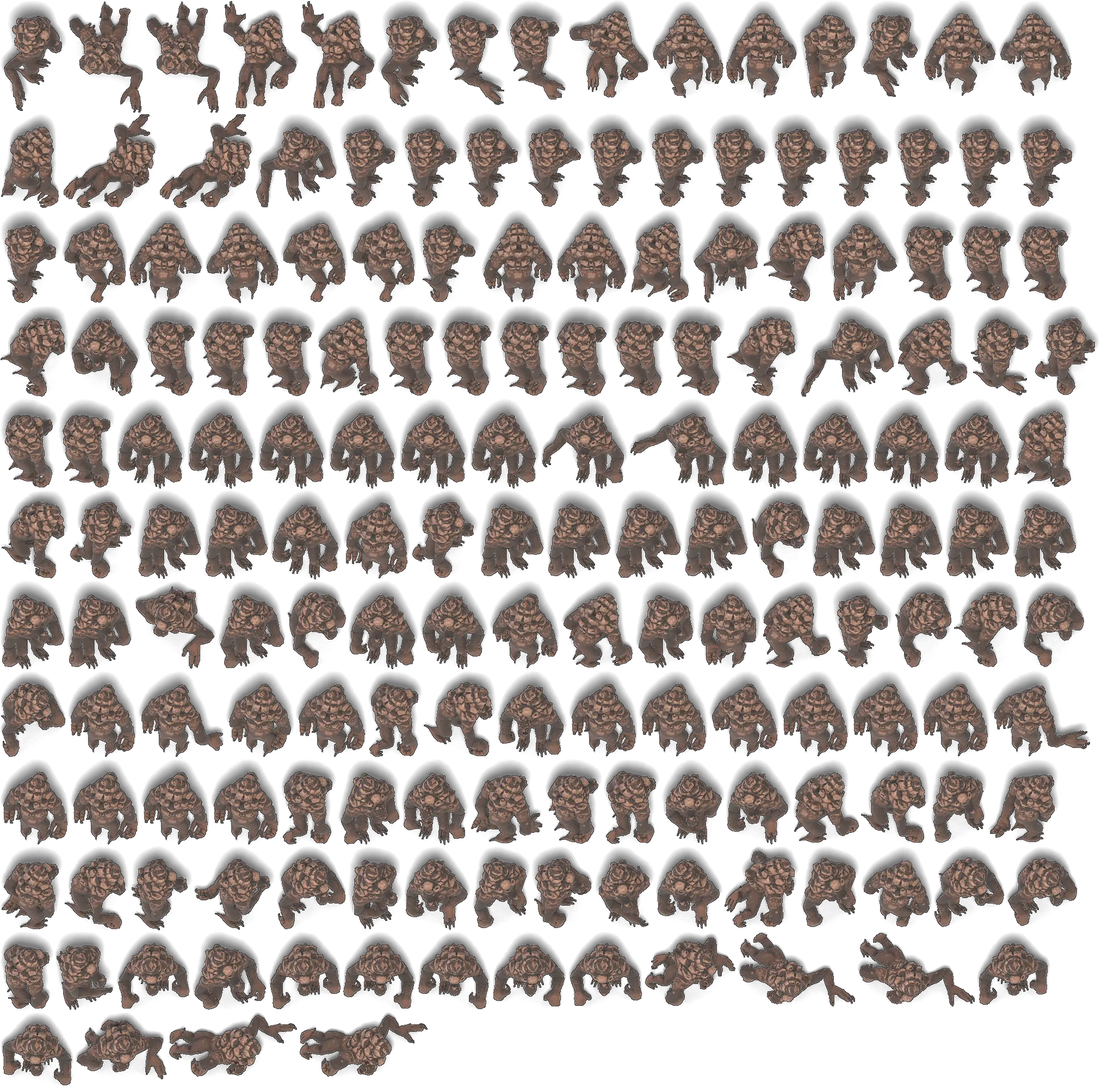
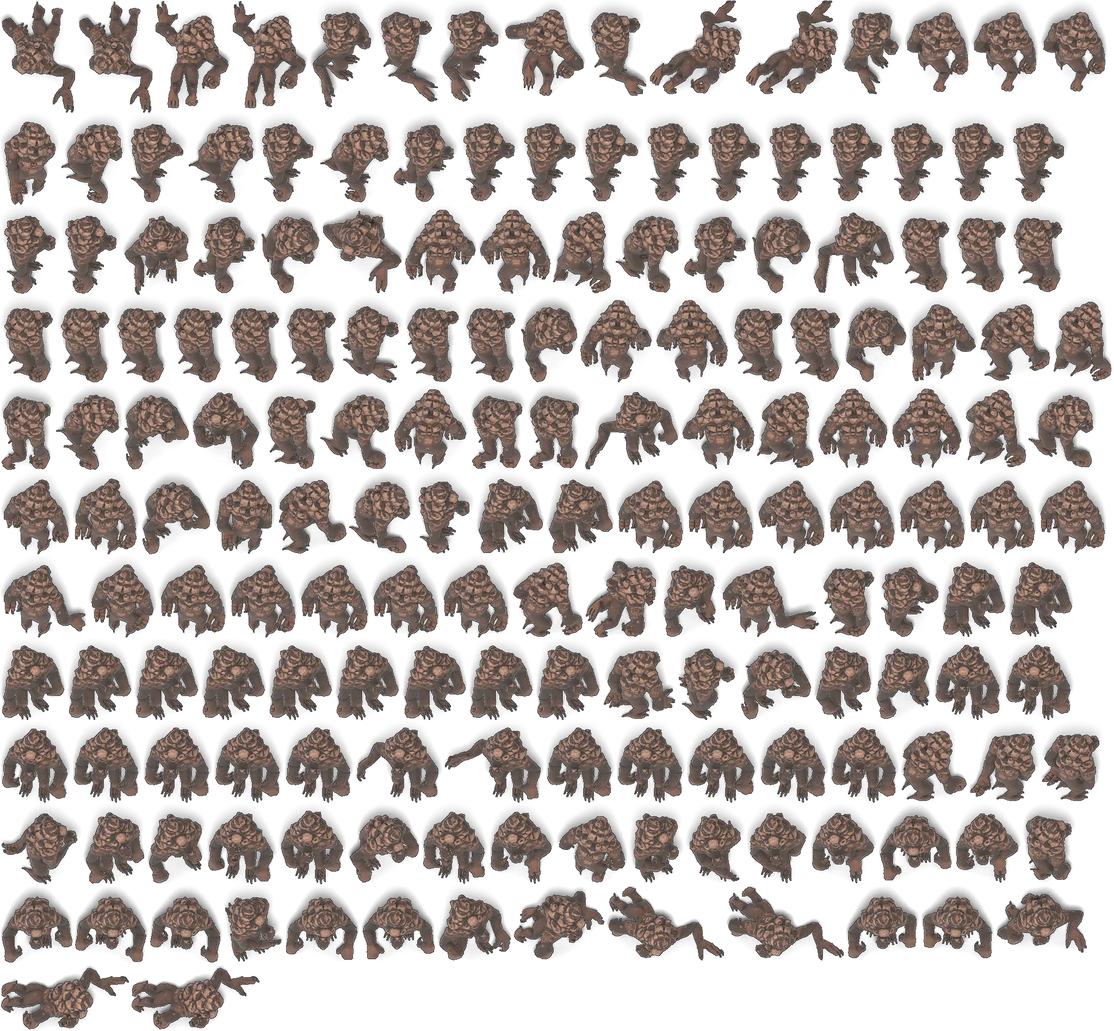
WIP v15: monk/angel/goblin/imp atlases, gog/lich entries, hide 3D wings under sprites

diff --git a/game3d.js b/game3d.js
@@ -124,10 +124,10 @@ async function buildPart(f,def,tint){const g=await loadG(f);const o=SkeletonUtil
     holder.scale.setScalar(p.len*H/(L*ws));bone.add(holder);}
   return {o,anims:g.animations};}
 // ---- pre-rendered sprites (?sprites=1): Blender-rendered 5-direction atlases (mirrored to 8) replace live 3D models ----
-const SPR_ON=/[?&]sprites=1/.test(location.search);const SPR={};const SPR_UNITS=['pikeman','archer','swordsman','monk','cavalier','angel','centaur','skeleton','walkingDead','goblin','dwarf','imp','behemoth','greenDragon'];const sprLoader=new THREE.TextureLoader();const SPR_V=15;
+const SPR_ON=/[?&]sprites=1/.test(location.search);const SPR={};const SPR_UNITS=['pikeman','archer','swordsman','monk','cavalier','angel','centaur','skeleton','walkingDead','goblin','dwarf','imp','gog','lich','behemoth','greenDragon'];const sprLoader=new THREE.TextureLoader();const SPR_V=15;
 // upgraded creatures reuse their base unit's atlas with a colour tint and a slightly larger scale (same approach as the 3D fallback)
 const SPR_ALIAS={halberdier:['pikeman',0xc4d0ff],marksman:['archer',0xc8f0c0],crusader:['swordsman',0xffd28a],zealot:['monk',0xffe2a8],champion:['cavalier',0xdde4ff],archangel:['angel',0xffe6a0],
-  skeletonWarrior:['skeleton',0xc8d4ff],zombie:['walkingDead',0xc8e8a0],hobgoblin:['goblin',0xffc48a],battleDwarf:['dwarf',0xffcfa0],familiar:['imp',0xff9a7a],centaurCaptain:['centaur',0xd8e8c0],ancientBehemoth:['behemoth',0xffb890]};
+  skeletonWarrior:['skeleton',0xc8d4ff],zombie:['walkingDead',0xc8e8a0],hobgoblin:['goblin',0xffc48a],battleDwarf:['dwarf',0xffcfa0],familiar:['imp',0xff9a7a],centaurCaptain:['centaur',0xd8e8c0],magog:['gog',0xffb070],powerLich:['lich',0xd0b0ff],ancientBehemoth:['behemoth',0xffb890]};
 function loadSpr(t){if(!SPR_ON)return null;if(SPR_ALIAS[t])return loadSpr(SPR_ALIAS[t][0]);if(!SPR_UNITS.includes(t))return null;return SPR[t]||(SPR[t]=fetch(`assets/spr/${t}.json?v=${SPR_V}`).then(r=>r.json()).then(m=>Promise.all(m.pages.map((_,i)=>new Promise((res,rej)=>sprLoader.load(`assets/spr/${t}_p${i}.webp?v=${SPR_V}`,res,undefined,rej)))).then(tx=>{for(const x of tx){x.colorSpace=THREE.SRGBColorSpace;x.anisotropy=4;}m.tex=tx;return m;})).catch(e=>{console.warn('spr',t,e);return null;}));}
 const shadowTex=(()=>{const c=document.createElement('canvas');c.width=c.height=64;const x=c.getContext('2d');const g=x.createRadialGradient(32,32,2,32,32,32);g.addColorStop(0,'rgba(0,0,0,.62)');g.addColorStop(0.5,'rgba(0,0,0,.36)');g.addColorStop(1,'rgba(0,0,0,0)');x.fillStyle=g;x.fillRect(0,0,64,64);return new THREE.CanvasTexture(c);})();
 const shadowMat=new THREE.MeshBasicMaterial({map:shadowTex,transparent:true,depthWrite:false});const shadowGeo=new THREE.PlaneGeometry(1,1);shadowGeo.rotateX(-Math.PI/2);
@@ -212,7 +212,7 @@ function updateView(v,dt,b){const u=v.u,def=v.def;const [x,z]=unitWorld(u);
   v.bob+=dt*3;const hover=fly?fly+Math.sin(v.bob)*0.05:0;
   v.spawn=Math.min(1,v.spawn+dt*3);const sp=v.spawn<1?(1-Math.pow(1-v.spawn,3)):1;
   if(v.dragPos){v.g.position.copy(v.dragPos);}else v.g.position.set(x,0,z);v.inner.position.y=hover+(v.dragPos?0.18:0);if(v.def.glow&&u.alive&&Math.random()<dt*3){P({x:v.g.position.x+(Math.random()-0.5)*0.4,y:Math.random()*v.def.h,z:v.g.position.z+(Math.random()-0.5)*0.4,vy:0.5,drag:1,life:0.8,s:0.05,c:[1,0.82,0.3]},true);}if(v.spawn<1){v.inner.position.y+=(1-sp)*2.4;v.dropping=1;}else if(v.dropping){v.dropping=0;dust(x,z,8,0.9);if(Math.random()<0.4)S.spawn();}v.g.scale.setScalar(0.75+0.25*Math.max(0,sp));
-  if(v.wg){v.wg.position.y=v.def.h*(v.def.wings.y||0.66)+v.inner.position.y;v.wt=(v.wt||Math.random()*6)+dt*(u.moving?11:6);const a=Math.sin(v.wt)*0.55+0.15;for(const [p,sd] of v.wg.userData.p)p.rotation.z=sd*a;v.wg.visible=u.alive||v.deadT<1.2;}
+  if(v.wg){v.wg.position.y=v.def.h*(v.def.wings.y||0.66)+v.inner.position.y;v.wt=(v.wt||Math.random()*6)+dt*(u.moving?11:6);const a=Math.sin(v.wt)*0.55+0.15;for(const [p,sd] of v.wg.userData.p)p.rotation.z=sd*a;v.wg.visible=!v.spr&&(u.alive||v.deadT<1.2);}
   // facing: toward target when engaged, else movement direction
   let want=v.yaw;const t=u.wind>0&&u.windT&&u.windT.alive?u.windT:(u.target&&u.target.alive?u.target:null);
   if(u.alive){if(u.moving){const [x0,z0]=toW(...Core.cellCenter(u.fx,u.fy,u.fw,u.fh)),[x1,z1]=toW(...Core.cellCenter(u.ax,u.ay,u.fw,u.fh));if(Math.hypot(x1-x0,z1-z0)>0.01)want=Math.atan2(x1-x0,z1-z0);}
